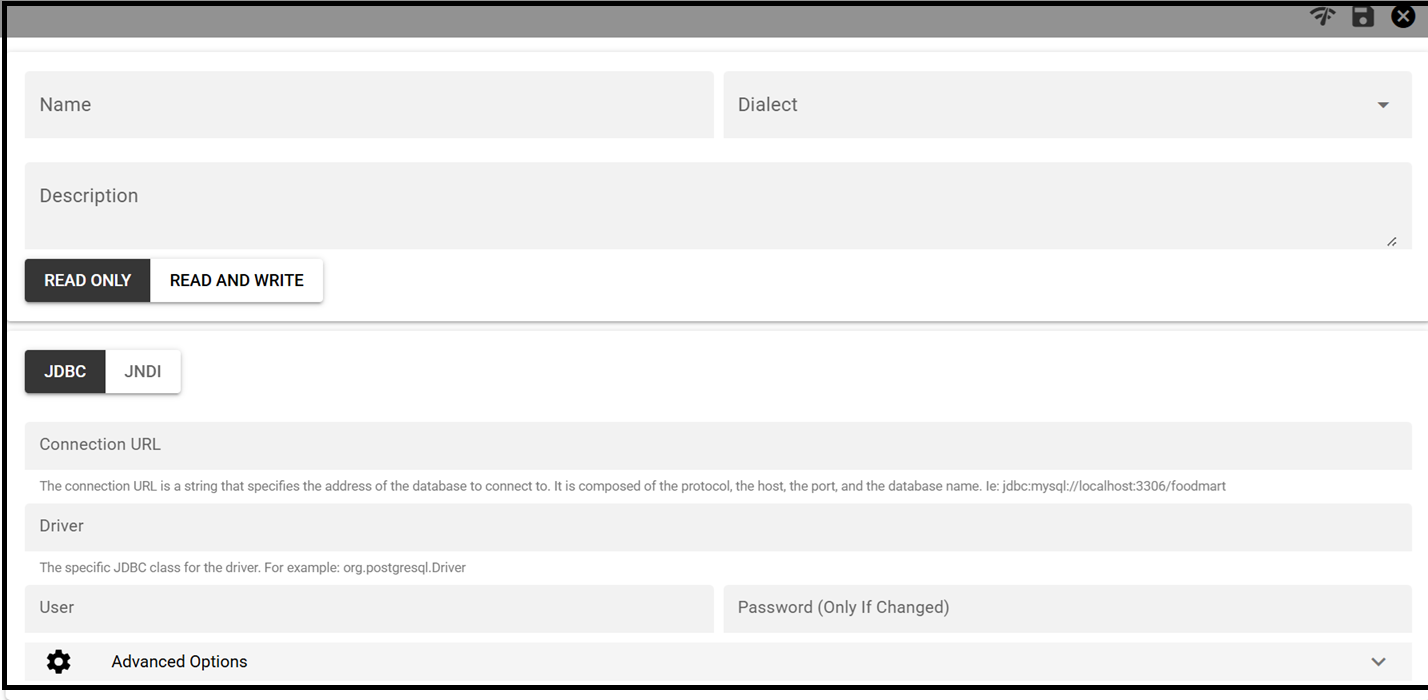
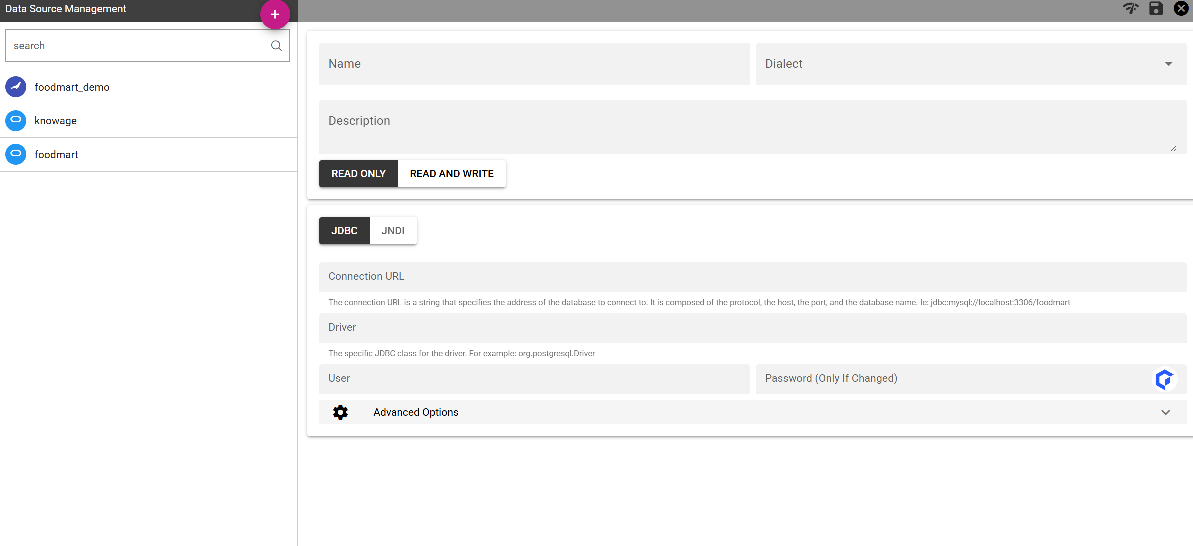
dsu

diff --git a/chapter_3/create_datasource/index.rst b/chapter_3/create_datasource/index.rst
@@ -18,7 +18,7 @@ To add a new connection, first add the relative JDBC driver to the folder ``TOMC
 
 By clicking the **Add** button on the top right corner of the left panel, an empty form will be displayed on the right.
 
-.. figure:: media/image25.png
+.. figure:: media/image25_ds.png
 
      Add a new data source
 
